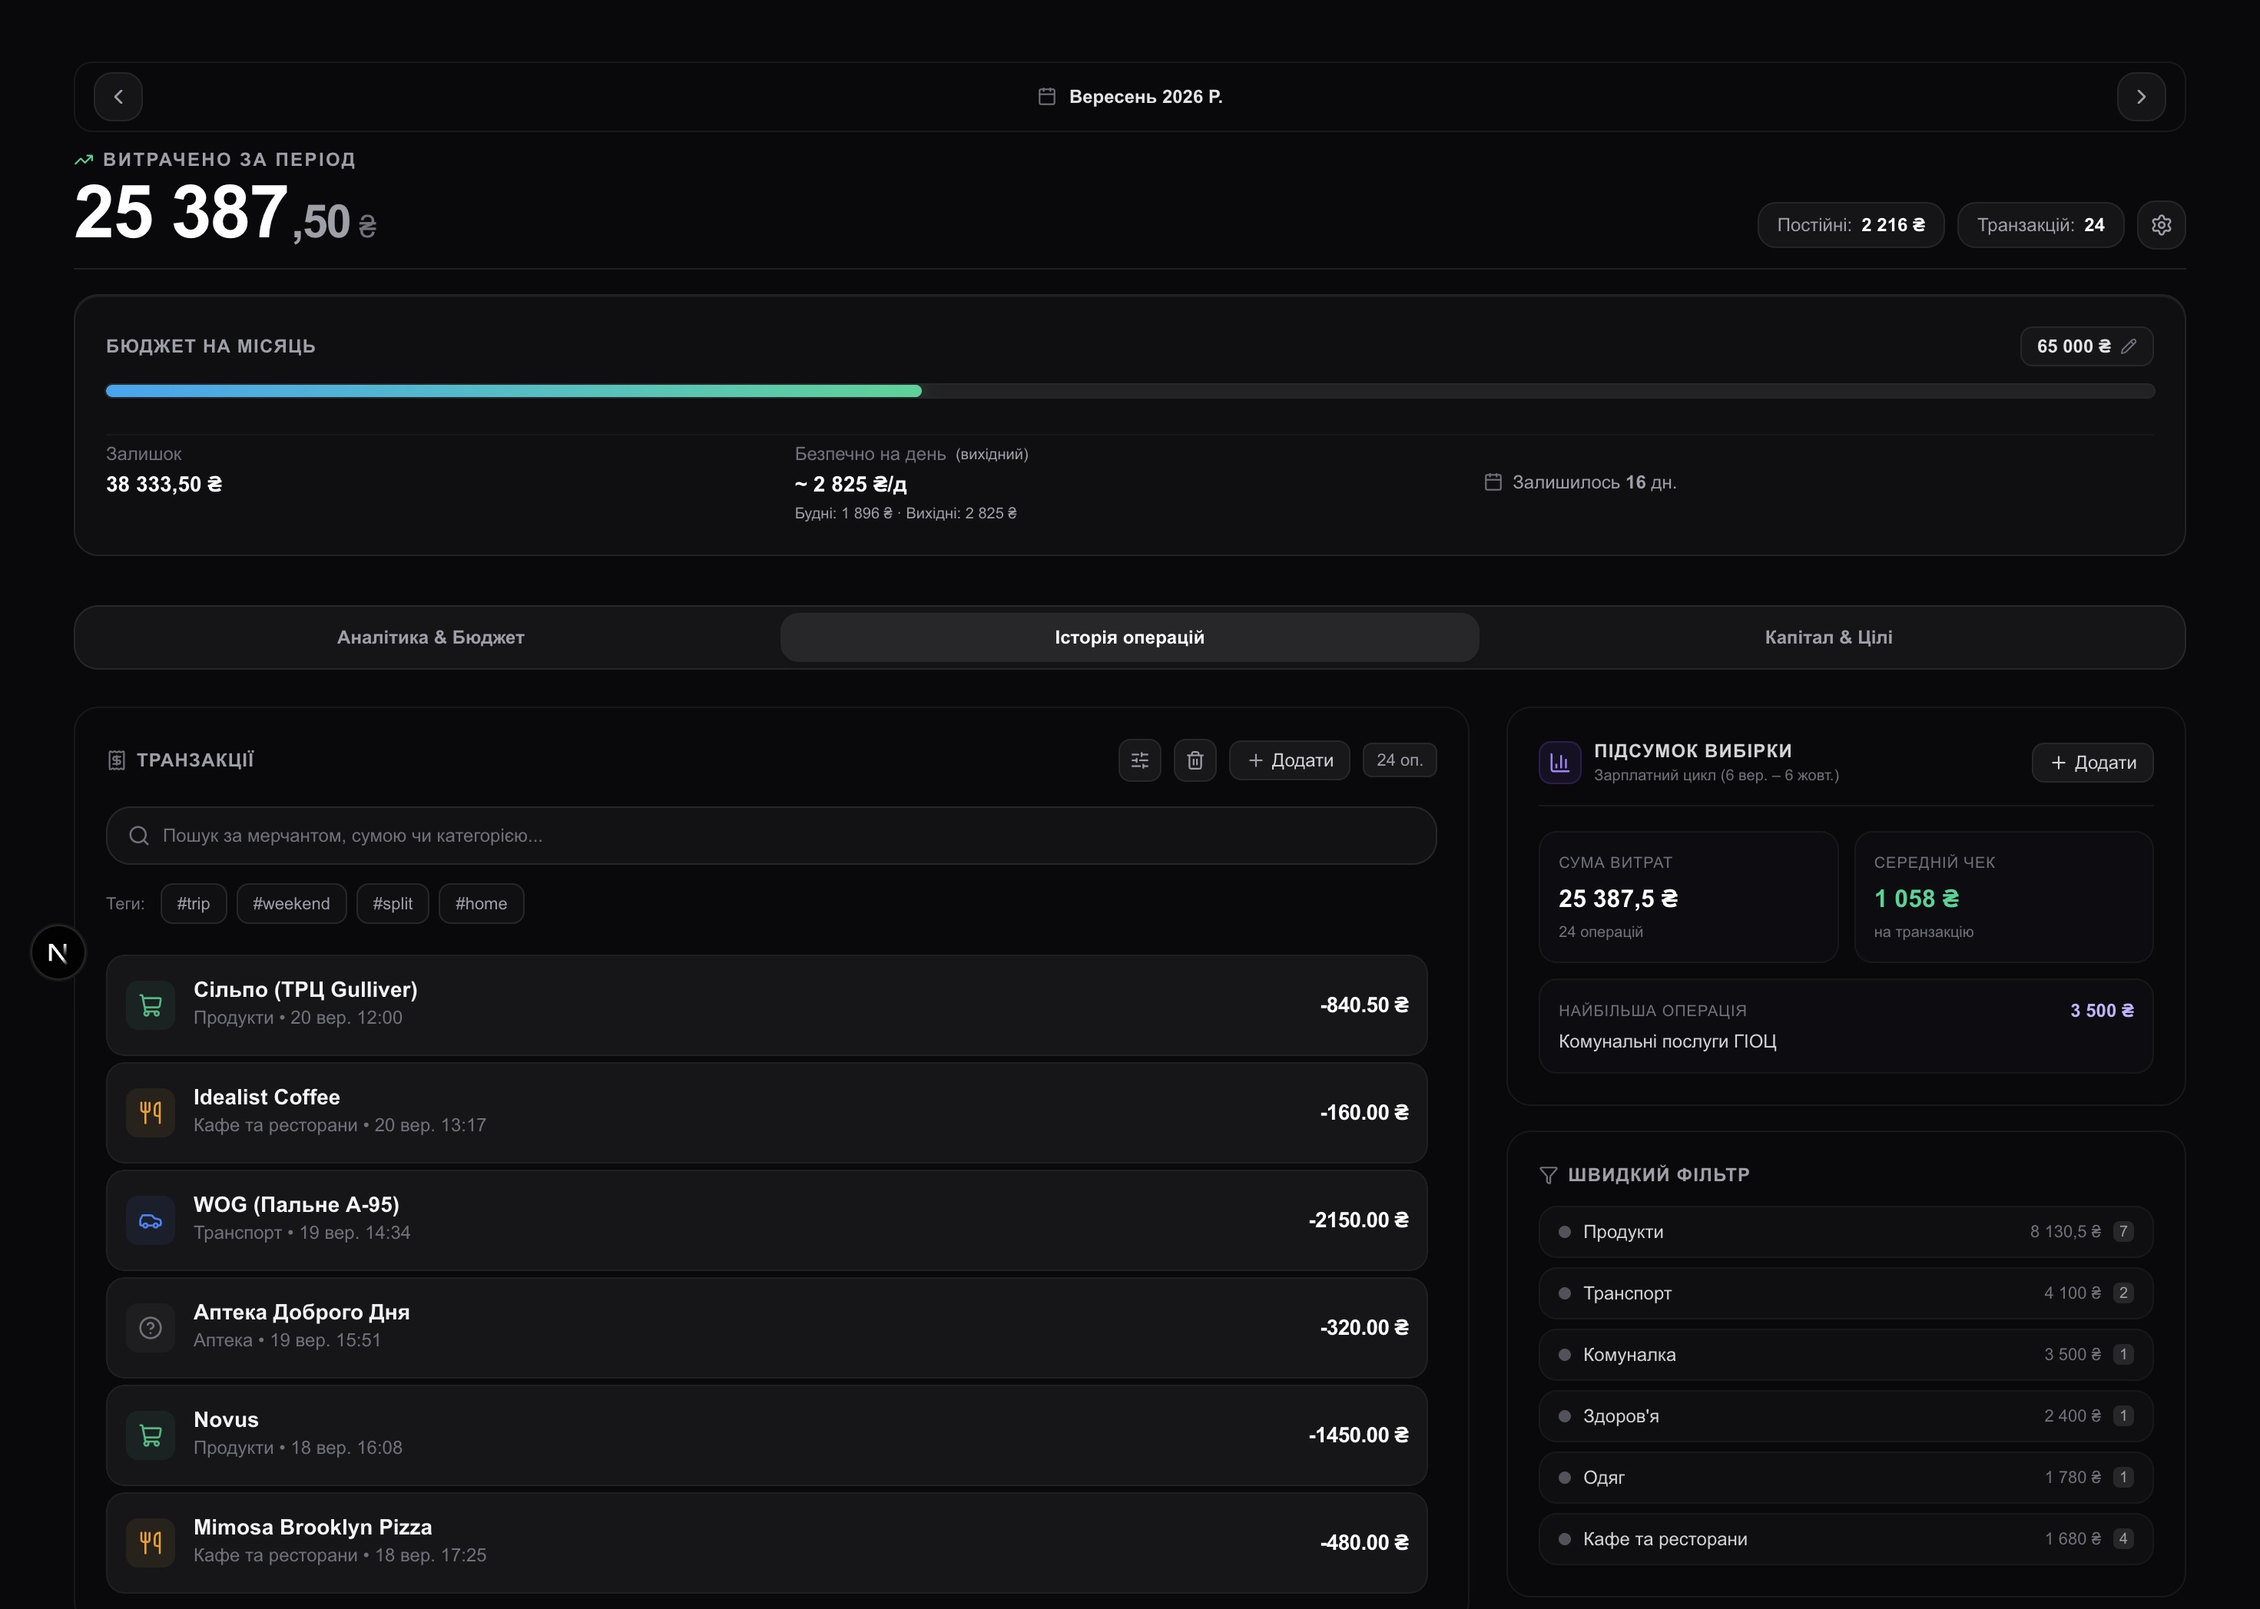
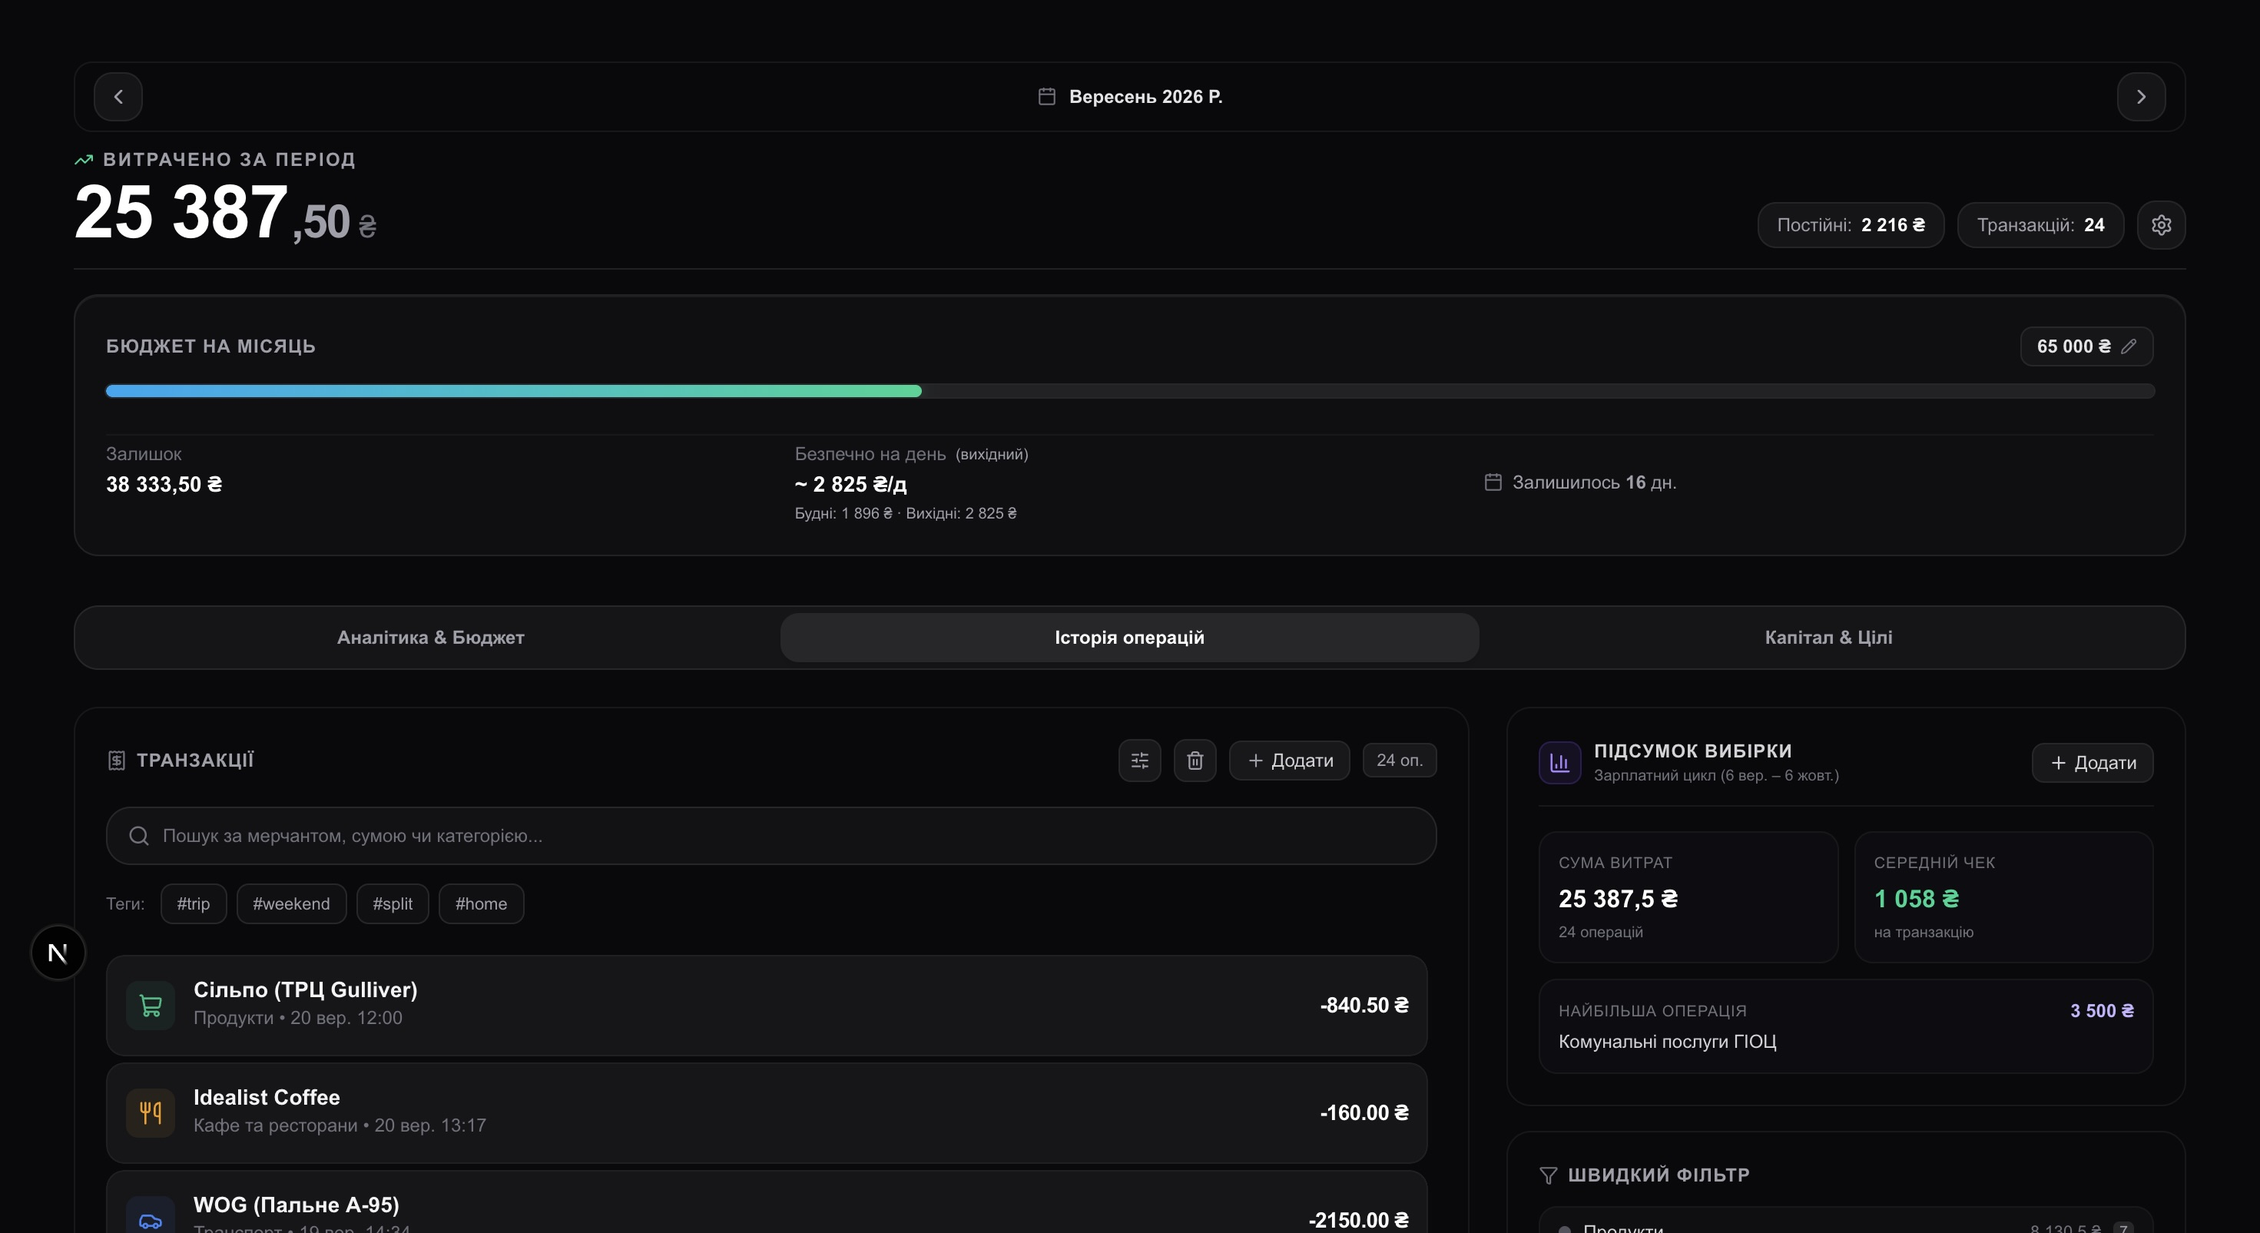
docs(readme): fix math formula rendering and align showcase layout to symmetrical hybrid

diff --git a/README.md b/README.md
@@ -71,24 +71,28 @@ Most personal finance trackers suffer from three fundamental structural flaws:
         <p><sub><em>Personal CPI, recurring subscription leak detection, and conversational AI advisor</em></sub></p>
       </td>
       <td width="50%" align="center" valign="top" style="border: none; padding: 8px;">
-        <p><b>🔍 Transaction Intelligence & Context Tags</b></p>
-        <img src="docs/screenshots/desktop-history.png" alt="Transaction Intelligence & History" style="border-radius: 8px; border: 1px solid #30363d; width: 100%;" />
-        <p><sub><em>Fuzzy search, itemized receipt splitting, and context hashtags (#trip, #weekend)</em></sub></p>
-      </td>
-    </tr>
-    <tr style="border: none;">
-      <td width="50%" align="center" valign="top" style="border: none; padding: 8px;">
-        <p><b>📱 Mobile-First PWA Experience</b></p>
-        <img src="docs/screenshots/mobile-pwa.png" alt="BudgetGraph OS Mobile PWA" style="border-radius: 8px; border: 1px solid #30363d; max-width: 250px; width: 60%;" />
-        <p><sub><em>Gesture-driven bottom sheets, iOS Safe Area insets, and full offline resilience</em></sub></p>
-      </td>
-      <td width="50%" align="center" valign="top" style="border: none; padding: 8px;">
         <p><b>💎 Wealth Management & Capital OS</b></p>
         <img src="docs/screenshots/desktop-wealth.png" alt="Wealth Management & Goals" style="border-radius: 8px; border: 1px solid #30363d; width: 100%;" />
         <p><sub><em>Multi-asset portfolio (Inzhur, OVDP), multi-currency vaults, and Cost-Per-Use (CPU)</em></sub></p>
       </td>
     </tr>
   </table>
+</div>
+
+<br />
+
+<div align="center">
+  <img src="docs/screenshots/desktop-history.png" alt="Transaction Intelligence & History" width="900" style="border-radius: 8px; border: 1px solid #30363d;" />
+  <p><b>🔍 Transaction Intelligence & Context Tags</b></p>
+  <p><sub><em>Fuzzy search, itemized receipt splitting, and context hashtags (#trip, #weekend)</em></sub></p>
+</div>
+
+<br />
+
+<div align="center">
+  <img src="docs/screenshots/mobile-pwa.png" alt="BudgetGraph OS Mobile PWA" width="280" style="border-radius: 16px; border: 1px solid #30363d;" />
+  <p><b>📱 Mobile-First PWA Experience</b></p>
+  <p><sub><em>Gesture-driven bottom sheets, iOS Safe Area insets, 3-tier Service Worker caching, and full offline resilience</em></sub></p>
 </div>
 
 ---
@@ -109,11 +113,7 @@ Most personal finance trackers suffer from three fundamental structural flaws:
 
 - **Cycle-First Architecture (`src/lib/cycle-utils.ts`):** Budgets are synchronized with dynamic paycheck cycles (e.g., 10th to 9th of next month) rather than artificial calendar boundaries.
 - **Weighted Pacing & Burn Rate Simulator (`src/lib/weighted-pacing.ts`):**
-
-  ```math
-  \text{Target Daily Burn} = \frac{\text{Remaining Budget}}{\sum_{d \in \text{Remaining Days}} w(d)}
-  ```
-
+  $$\text{Target Daily Burn} = \frac{\text{Remaining Budget}}{\sum_{d \in \text{Remaining Days}} w(d)}$$
   Incorporates weekend spending elasticity ($w_{\text{weekday}} = 1.0$, $w_{\text{weekend}} = 1.35$) to produce an achievable, realistic daily allowance curve.
 
 - **Personal CPI (Personal Inflation Index) (`src/lib/personal-cpi.ts`):** Calculates a Laspeyres-weighted consumer basket inflation rate across expenditure categories compared to previous cycles.
